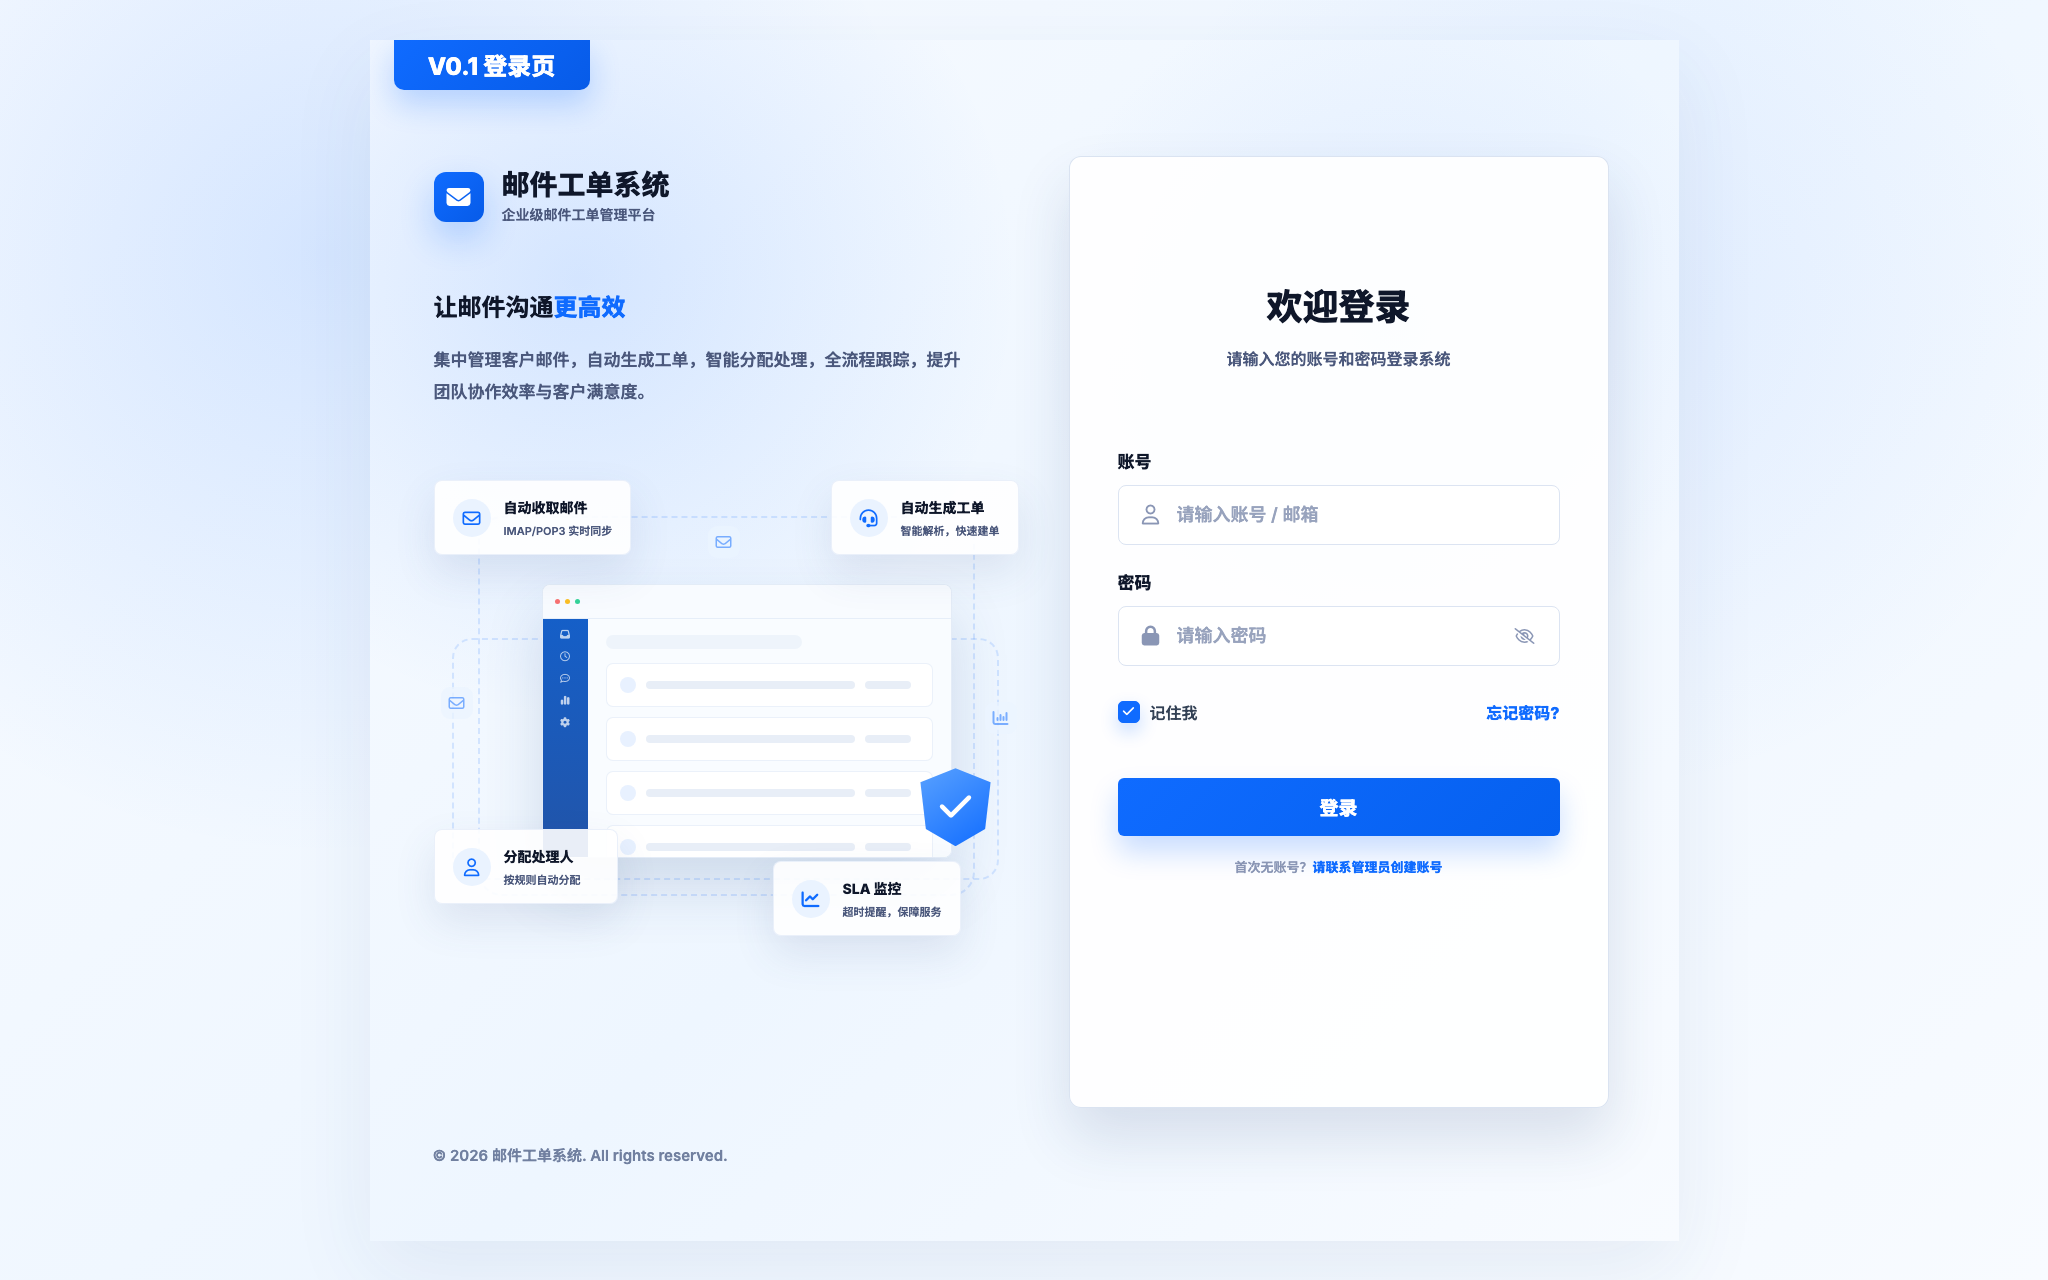
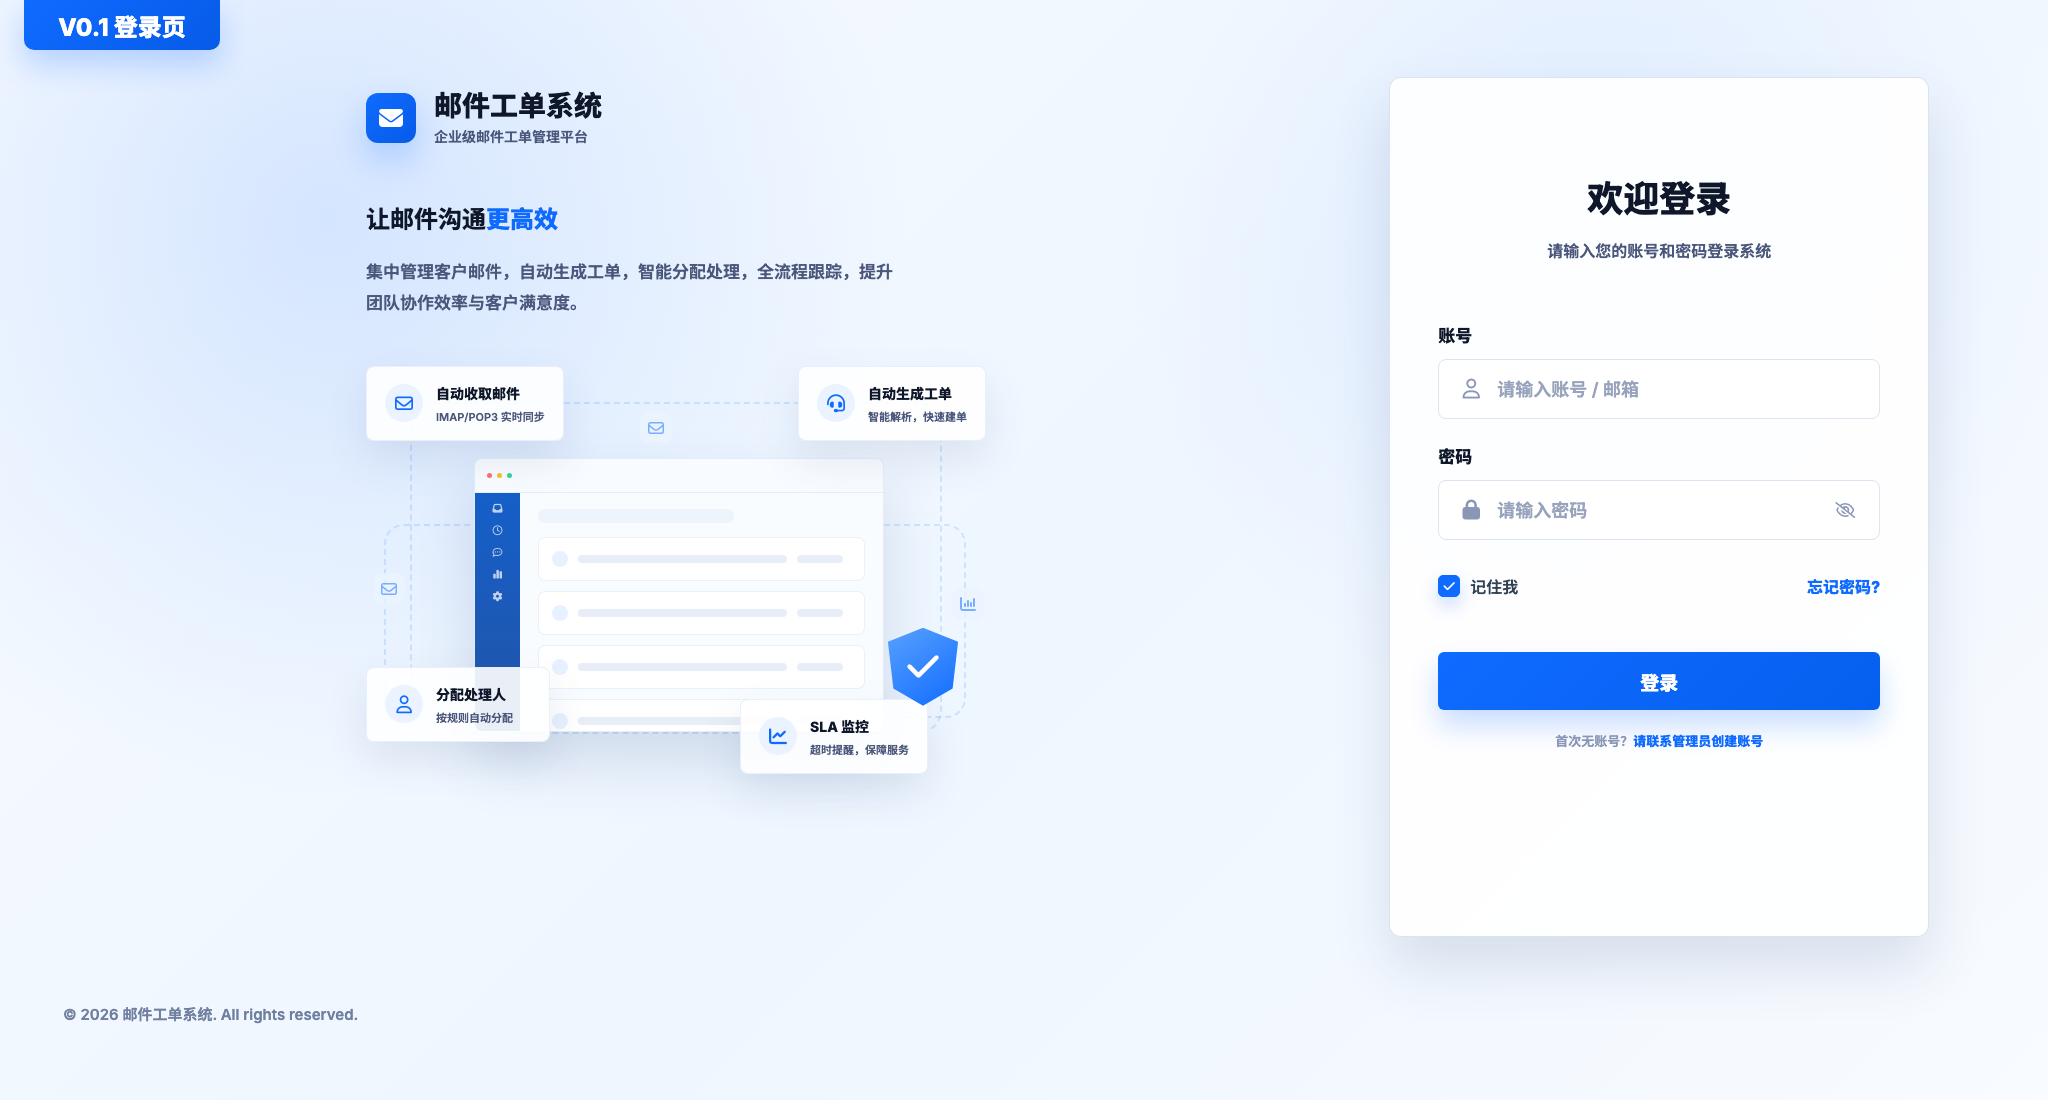
docs: fit login prototype to viewport

diff --git a/docs/原型设计/5、邮件工单系统-登录页原型.html b/docs/原型设计/5、邮件工单系统-登录页原型.html
@@ -52,33 +52,25 @@
         .prototype-shell {
             position: fixed;
             inset: 0;
-            display: flex;
-            align-items: center;
-            justify-content: center;
             overflow: hidden;
         }
 
         .prototype-stage {
             position: relative;
-            width: calc(1309px * var(--prototype-scale, 1));
-            height: calc(1201px * var(--prototype-scale, 1));
-            flex: 0 0 auto;
+            width: 100%;
+            min-width: 1180px;
+            min-height: 100vh;
         }
 
         .prototype-artboard {
-            position: absolute;
-            left: 0;
-            top: 0;
-            width: 1309px;
-            height: 1201px;
+            position: relative;
+            width: 100%;
+            min-height: 100vh;
             overflow: hidden;
-            transform: scale(var(--prototype-scale, 1));
-            transform-origin: top left;
             background:
                 radial-gradient(circle at 16% 20%, rgba(15, 107, 255, 0.14), transparent 30%),
                 radial-gradient(circle at 78% 24%, rgba(82, 142, 255, 0.10), transparent 26%),
                 linear-gradient(135deg, #f8fbff 0%, #eef6ff 52%, #f8fbff 100%);
-            box-shadow: 0 30px 80px rgba(39, 76, 130, 0.08);
         }
 
         .version-badge {
@@ -100,17 +92,20 @@
         }
 
         .page {
-            width: 1309px;
-            min-height: 1201px;
+            width: 100%;
+            height: 100vh;
+            min-height: 760px;
             margin: 0 auto;
-            padding: 116px 70px 72px 64px;
+            padding: clamp(64px, 7vh, 90px) clamp(48px, 5.8vw, 120px) clamp(38px, 4vh, 52px);
             display: grid;
-            grid-template-columns: 585px 540px;
-            gap: 50px;
+            grid-template-columns: minmax(620px, 1fr) 540px;
+            gap: clamp(56px, 5vw, 96px);
             align-items: start;
         }
 
         .intro {
+            width: min(680px, 100%);
+            justify-self: center;
             padding-top: 14px;
         }
 
@@ -118,7 +113,7 @@
             display: flex;
             align-items: center;
             gap: 18px;
-            margin-bottom: 64px;
+            margin-bottom: 54px;
         }
 
         .brand-icon {
@@ -163,7 +158,7 @@
 
         .hero-copy p {
             width: min(540px, 100%);
-            margin: 22px 0 72px;
+            margin: 22px 0 46px;
             color: var(--text-sub);
             font-size: 17px;
             line-height: 1.85;
@@ -172,9 +167,9 @@
 
         .workflow {
             position: relative;
-            width: 585px;
+            width: 620px;
             max-width: 100%;
-            height: 458px;
+            height: 410px;
         }
 
         .workflow::before,
@@ -257,7 +252,7 @@
         .screen-preview {
             position: absolute;
             left: 108px;
-            top: 104px;
+            top: 92px;
             z-index: 1;
             width: 410px;
             height: 274px;
@@ -348,7 +343,7 @@
         .shield {
             position: absolute;
             right: 24px;
-            bottom: 92px;
+            bottom: 70px;
             z-index: 3;
             width: 78px;
             height: 78px;
@@ -392,7 +387,9 @@
         }
 
         .login-panel {
-            min-height: 952px;
+            height: calc(100vh - clamp(112px, 11vh, 142px));
+            min-height: 700px;
+            max-height: 860px;
             border: 1px solid rgba(215, 225, 240, 0.92);
             border-radius: 12px;
             background: rgba(255, 255, 255, 0.92);
@@ -400,7 +397,7 @@
             display: flex;
             align-items: flex-start;
             justify-content: center;
-            padding: 128px 48px 50px;
+            padding: clamp(78px, 9vh, 108px) 48px 42px;
         }
 
         .form-box {
@@ -409,7 +406,7 @@
         }
 
         .form-header {
-            margin-bottom: 84px;
+            margin-bottom: clamp(54px, 6vh, 72px);
             text-align: center;
         }
 
@@ -1028,9 +1025,6 @@
     </div>
 
     <script>
-        const DESIGN_WIDTH = 1309;
-        const DESIGN_HEIGHT = 1201;
-        const prototypeStage = document.getElementById('prototypeStage');
         const form = document.getElementById('loginForm');
         const account = document.getElementById('account');
         const password = document.getElementById('password');
@@ -1048,15 +1042,6 @@
         const noAccountButton = document.getElementById('noAccountButton');
         const modalCancel = document.getElementById('modalCancel');
         const modalConfirm = document.getElementById('modalConfirm');
-
-        function fitPrototype() {
-            const scale = Math.min(window.innerWidth / DESIGN_WIDTH, window.innerHeight / DESIGN_HEIGHT);
-            const finalScale = Math.min(scale, 1);
-            prototypeStage.style.setProperty('--prototype-scale', finalScale.toFixed(4));
-        }
-
-        fitPrototype();
-        window.addEventListener('resize', fitPrototype);
 
         function setFieldError(input, errorNode, message) {
             input.classList.add('invalid');

diff --git a/docs/项目进度与阶段规划.md b/docs/项目进度与阶段规划.md
@@ -43,7 +43,7 @@ date: 2026-07-22
 | 阻塞项 | PG-01 登录页原型待谭总确认 |
 | 完成条件 | 谭总确认后，将 PR-01/PG-01、P1-W0-01 标为 ✅，执行游标推进到 `P1-W0-02` |
 | 下一任务 | `P1-W0-02` 用户管理原型 |
-| 最后核对时间 | 2026-07-22 15:52 CST |
+| 最后核对时间 | 2026-07-22 15:58 CST |
 
 ### 0.2 状态标识
 
@@ -745,6 +745,8 @@ date: 2026-07-22
 | 2026-07-22 15:35 | P1-W0-01 | ⬜ -> 🧪 | 参照 5 号登录页 PNG，输出 HTML 原型并做静态交互自检 | `docs/原型设计/5、邮件工单系统-登录页原型.html`；PG-01 待谭总确认 | AI | 等待 PG-01 验收 |
 | 2026-07-22 15:50 | P1-W0-01-feedback | 🧪 -> 🧪 | 谭总反馈比例显示问题；Chrome 宽屏截图复测 | 原型改为 1309x1201 固定设计画布并按视口等比缩放；PG-01 仍待谭总确认 | AI | 等待 PG-01 验收 |
 | 2026-07-22 15:52 | P1-W0-01-feedback | 🧪 -> 🧪 | 谭总反馈左右宽度不协调；Chrome 宽屏截图复测 | 左侧内容区加宽，右侧登录卡与表单收窄；PG-01 仍待谭总确认 | AI | 等待 PG-01 验收 |
+| 2026-07-22 15:56 | P1-W0-01-feedback | 🧪 -> 🧪 | 谭总反馈左右留白过宽；Chrome 宽屏截图复测 | 取消居中固定画布，改为全宽浏览器画布与响应式内部栅格；PG-01 仍待谭总确认 | AI | 等待 PG-01 验收 |
+| 2026-07-22 15:58 | P1-W0-01-feedback | 🧪 -> 🧪 | 谭总反馈页面超出一屏出现滚动；Chrome 宽屏截图复测 | 压缩页面上下留白、登录卡高度和表单间距；宽屏一屏内完整展示；PG-01 仍待谭总确认 | AI | 等待 PG-01 验收 |
 
 ---
 

diff --git a/design-qa.md b/design-qa.md
@@ -8,7 +8,7 @@ final result: passed
 - Prototype HTML: `docs/原型设计/5、邮件工单系统-登录页原型.html`
 - Captured screenshot: `docs/原型设计/5、邮件工单系统-登录页原型-渲染截图.png`
 - Wide-screen ratio check: `docs/原型设计/5、邮件工单系统-登录页原型-宽屏比例校验.png`
-- Viewports: 1309x1201, 2048x1280
+- Viewports: 1309x1201, 2048x1100
 
 ## Checks
 
@@ -19,8 +19,9 @@ final result: passed
 | Illustration | passed | Left workflow illustration approximates the reference using existing system UI language. |
 | Login card | passed | Card position, scale, title, inputs, remember row, forgot action, and primary button align with the reference. |
 | Interaction states | passed | Required, error, loading, success, password toggle, forgot password, and no-account states are implemented. |
-| Wide-screen scaling | passed | Prototype now uses a fixed 1309x1201 design canvas with viewport-fit scaling, preventing oversized display and footer overlap. |
+| Wide-screen scaling | passed | Prototype now uses a full-width browser canvas with a balanced inner grid, removing the large blank side gutters on wide screens. |
 | Column balance | passed | Left content column is widened and the right login panel/form is narrowed so the two sides read with more balanced visual weight. |
+| Single-screen fit | passed | Wide-screen verification fits the login page in one viewport without visible page scrolling. |
 
 ## Follow-Up Notes
 

diff --git a/docs/验收记录/P1-W0-01.md b/docs/验收记录/P1-W0-01.md
@@ -29,8 +29,10 @@
 ## 视觉自检
 
 - 已按 1309x1201 视口使用 Chrome headless 生成渲染截图。
-- 已针对宽屏窗口修正比例显示：原型改为 1309x1201 固定设计画布，并按当前浏览器视口等比缩放。
+- 已针对宽屏窗口修正比例显示：原型改为全宽浏览器画布，保留内部栅格比例，避免按图片方式居中缩小。
 - 已根据谭总反馈调整左右宽度：左侧内容区加宽，右侧登录卡与表单收窄，降低右侧视觉重量。
+- 已根据谭总反馈取消居中固定画布：背景与内容容器改为铺满浏览器宽度，避免宽屏下左右出现大块空白。
+- 已根据谭总反馈压缩纵向尺寸：页面上下留白、登录卡高度、表单顶部间距已收紧，宽屏截图一屏内完整展示。
 - 页面保留参考图中的版本角标、左侧品牌区、能力说明、流程插画、右侧登录卡片、版权信息。
 - 桌面视口未发现文字重叠、按钮溢出、输入框错位。
 - 已提供窄屏等比缩放：较小窗口下完整设计画布按比例缩小，避免内容挤压或重叠。
